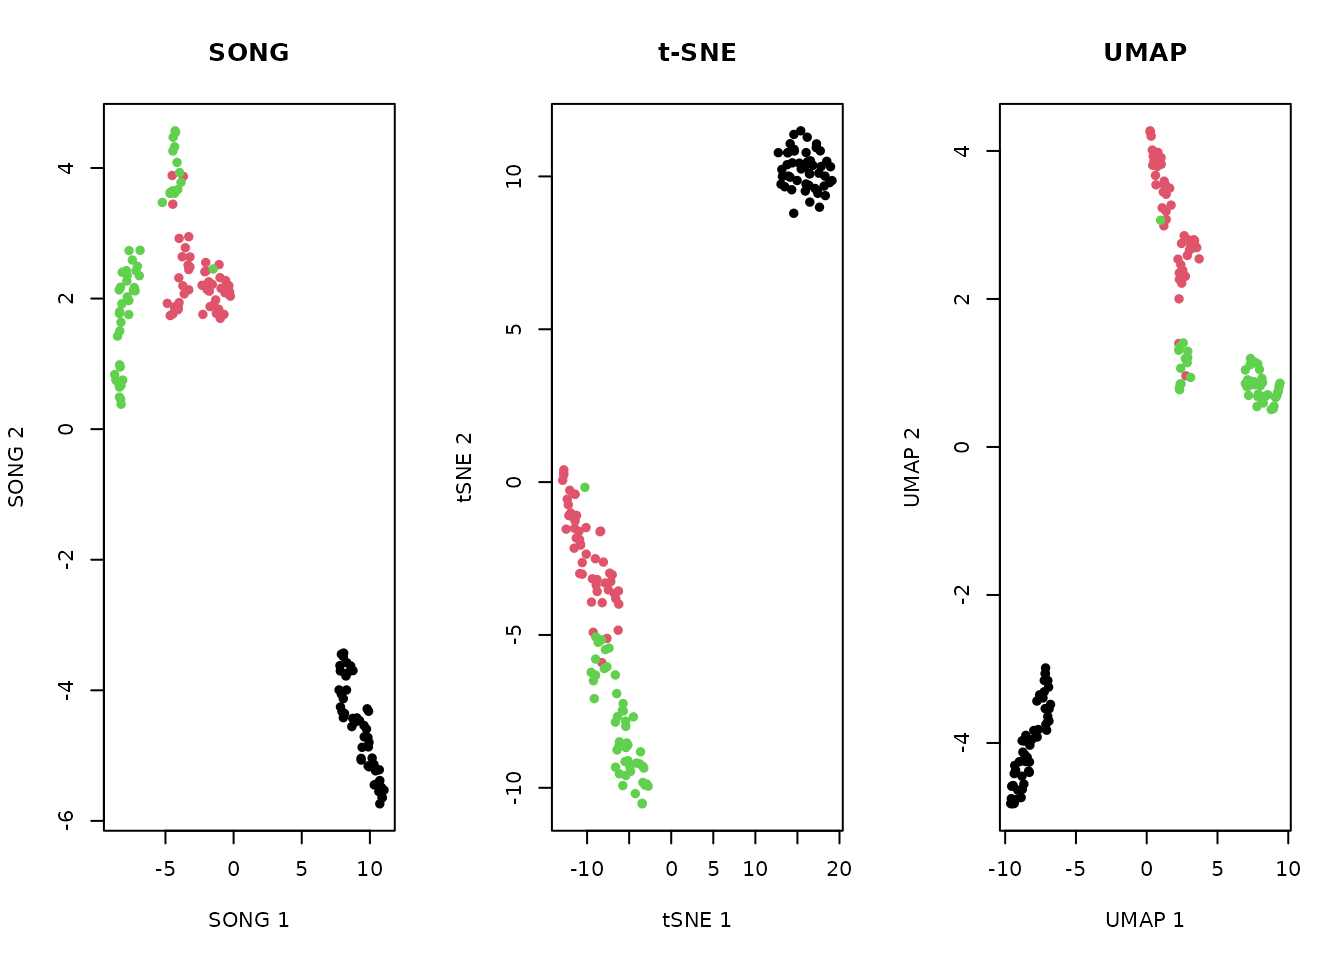
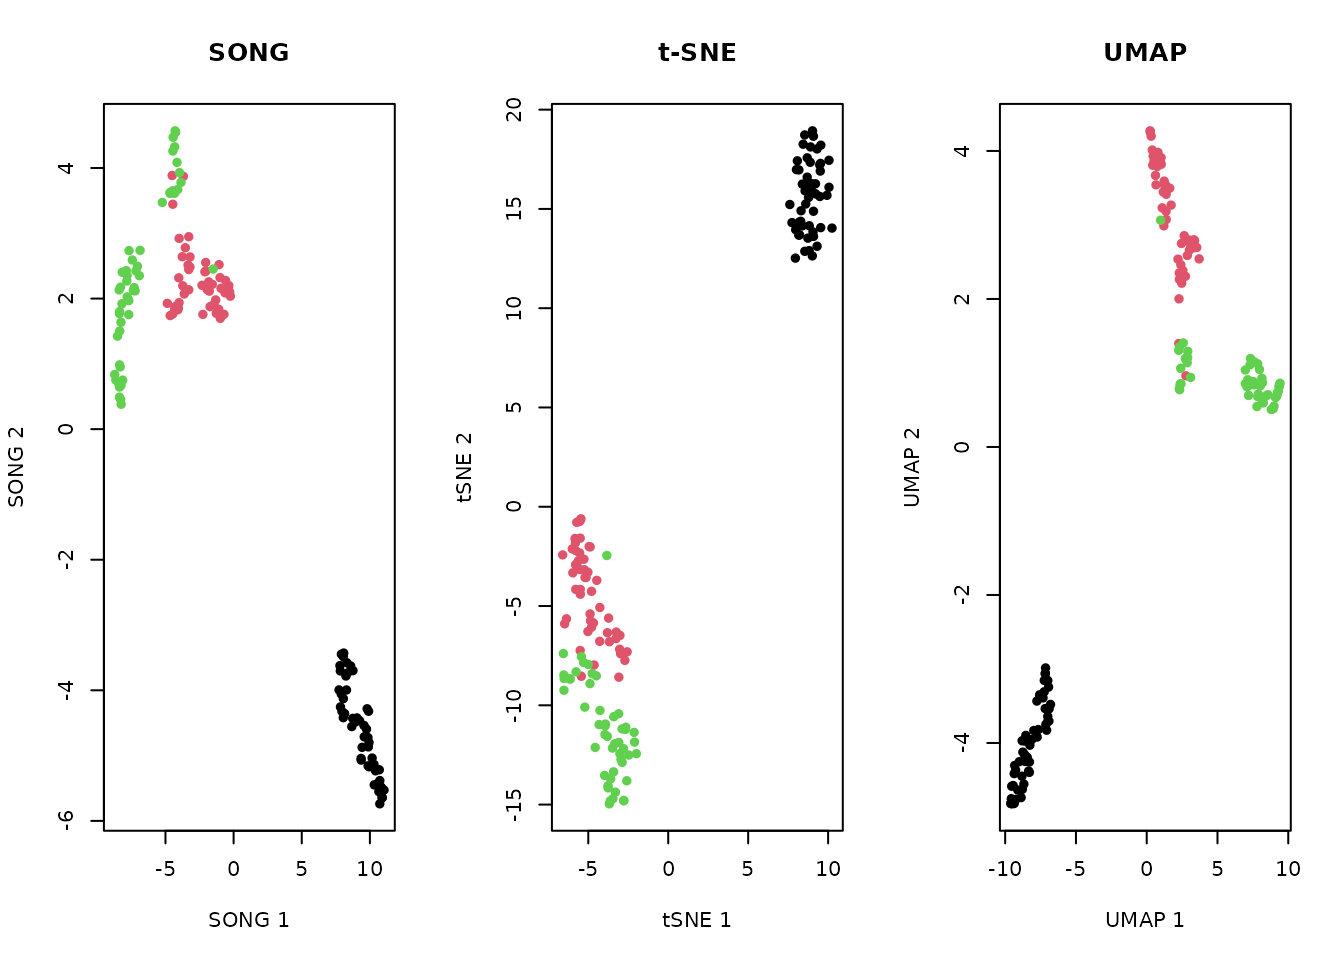
Deploying to gh-pages from @ CTTIR/songR@1a8f147b2225b5cde351894e0cf793d37db4d339 🚀

diff --git a/articles/introduction.html b/articles/introduction.html
@@ -78,6 +78,8 @@ Heller</h4>
 
     
     
+<!-- badges: start -->
+<p><a href="https://github.com/r-heller/songR/actions/workflows/R-CMD-check.yaml" class="external-link"><img src="https://github.com/r-heller/songR/actions/workflows/R-CMD-check.yaml/badge.svg" alt="R-CMD-check"></a> <a href="https://r-heller.github.io/songR/" class="external-link"><img src="https://github.com/r-heller/songR/actions/workflows/pkgdown.yaml/badge.svg" alt="pkgdown"></a> <a href="https://CRAN.R-project.org/package=songR" class="external-link"><img src="https://www.r-pkg.org/badges/version/songR" alt="CRAN status"></a> <a href="https://app.codecov.io/gh/r-heller/songR?branch=main" class="external-link"><img src="https://codecov.io/gh/r-heller/songR/branch/main/graph/badge.svg" alt="Codecov test coverage"></a> <a href="https://cran.r-project.org/package=songR" class="external-link"><img src="https://cranlogs.r-pkg.org/badges/songR" alt="CRAN downloads"></a> <a href="https://cran.r-project.org/package=songR" class="external-link"><img src="https://cranlogs.r-pkg.org/badges/grand-total/songR" alt="CRAN downloads total"></a> <a href="https://opensource.org/licenses/MIT" class="external-link"><img src="https://img.shields.io/badge/license-MIT-yellow.svg" alt="License: MIT"></a> <a href="https://lifecycle.r-lib.org/articles/stages.html#experimental" class="external-link"><img src="https://img.shields.io/badge/lifecycle-experimental-orange.svg" alt="Lifecycle: experimental"></a> <!-- badges: end --></p>
 <div class="section level3">
 <h3 id="what-is-song">What is SONG?<a class="anchor" aria-label="anchor" href="#what-is-song"></a>
 </h3>

diff --git a/articles/reproducing_paper_figures.html b/articles/reproducing_paper_figures.html
@@ -78,6 +78,8 @@ Heller</h4>
 
     
     
+<!-- badges: start -->
+<p><a href="https://github.com/r-heller/songR/actions/workflows/R-CMD-check.yaml" class="external-link"><img src="https://github.com/r-heller/songR/actions/workflows/R-CMD-check.yaml/badge.svg" alt="R-CMD-check"></a> <a href="https://r-heller.github.io/songR/" class="external-link"><img src="https://github.com/r-heller/songR/actions/workflows/pkgdown.yaml/badge.svg" alt="pkgdown"></a> <a href="https://CRAN.R-project.org/package=songR" class="external-link"><img src="https://www.r-pkg.org/badges/version/songR" alt="CRAN status"></a> <a href="https://app.codecov.io/gh/r-heller/songR?branch=main" class="external-link"><img src="https://codecov.io/gh/r-heller/songR/branch/main/graph/badge.svg" alt="Codecov test coverage"></a> <a href="https://cran.r-project.org/package=songR" class="external-link"><img src="https://cranlogs.r-pkg.org/badges/songR" alt="CRAN downloads"></a> <a href="https://cran.r-project.org/package=songR" class="external-link"><img src="https://cranlogs.r-pkg.org/badges/grand-total/songR" alt="CRAN downloads total"></a> <a href="https://opensource.org/licenses/MIT" class="external-link"><img src="https://img.shields.io/badge/license-MIT-yellow.svg" alt="License: MIT"></a> <a href="https://lifecycle.r-lib.org/articles/stages.html#experimental" class="external-link"><img src="https://img.shields.io/badge/lifecycle-experimental-orange.svg" alt="Lifecycle: experimental"></a> <!-- badges: end --></p>
 <div class="section level2">
 <h2 id="overview">Overview<a class="anchor" aria-label="anchor" href="#overview"></a>
 </h2>

diff --git a/articles/songR_quickstart.html b/articles/songR_quickstart.html
@@ -78,6 +78,8 @@ Heller</h4>
 
     
     
+<!-- badges: start -->
+<p><a href="https://github.com/r-heller/songR/actions/workflows/R-CMD-check.yaml" class="external-link"><img src="https://github.com/r-heller/songR/actions/workflows/R-CMD-check.yaml/badge.svg" alt="R-CMD-check"></a> <a href="https://r-heller.github.io/songR/" class="external-link"><img src="https://github.com/r-heller/songR/actions/workflows/pkgdown.yaml/badge.svg" alt="pkgdown"></a> <a href="https://CRAN.R-project.org/package=songR" class="external-link"><img src="https://www.r-pkg.org/badges/version/songR" alt="CRAN status"></a> <a href="https://app.codecov.io/gh/r-heller/songR?branch=main" class="external-link"><img src="https://codecov.io/gh/r-heller/songR/branch/main/graph/badge.svg" alt="Codecov test coverage"></a> <a href="https://cran.r-project.org/package=songR" class="external-link"><img src="https://cranlogs.r-pkg.org/badges/songR" alt="CRAN downloads"></a> <a href="https://cran.r-project.org/package=songR" class="external-link"><img src="https://cranlogs.r-pkg.org/badges/grand-total/songR" alt="CRAN downloads total"></a> <a href="https://opensource.org/licenses/MIT" class="external-link"><img src="https://img.shields.io/badge/license-MIT-yellow.svg" alt="License: MIT"></a> <a href="https://lifecycle.r-lib.org/articles/stages.html#experimental" class="external-link"><img src="https://img.shields.io/badge/lifecycle-experimental-orange.svg" alt="Lifecycle: experimental"></a> <!-- badges: end --></p>
 <div class="section level2">
 <h2 id="what-is-song">What is SONG?<a class="anchor" aria-label="anchor" href="#what-is-song"></a>
 </h2>

diff --git a/articles/songR_shiny_app.html b/articles/songR_shiny_app.html
@@ -78,6 +78,8 @@ Heller</h4>
 
     
     
+<!-- badges: start -->
+<p><a href="https://github.com/r-heller/songR/actions/workflows/R-CMD-check.yaml" class="external-link"><img src="https://github.com/r-heller/songR/actions/workflows/R-CMD-check.yaml/badge.svg" alt="R-CMD-check"></a> <a href="https://r-heller.github.io/songR/" class="external-link"><img src="https://github.com/r-heller/songR/actions/workflows/pkgdown.yaml/badge.svg" alt="pkgdown"></a> <a href="https://CRAN.R-project.org/package=songR" class="external-link"><img src="https://www.r-pkg.org/badges/version/songR" alt="CRAN status"></a> <a href="https://app.codecov.io/gh/r-heller/songR?branch=main" class="external-link"><img src="https://codecov.io/gh/r-heller/songR/branch/main/graph/badge.svg" alt="Codecov test coverage"></a> <a href="https://cran.r-project.org/package=songR" class="external-link"><img src="https://cranlogs.r-pkg.org/badges/songR" alt="CRAN downloads"></a> <a href="https://cran.r-project.org/package=songR" class="external-link"><img src="https://cranlogs.r-pkg.org/badges/grand-total/songR" alt="CRAN downloads total"></a> <a href="https://opensource.org/licenses/MIT" class="external-link"><img src="https://img.shields.io/badge/license-MIT-yellow.svg" alt="License: MIT"></a> <a href="https://lifecycle.r-lib.org/articles/stages.html#experimental" class="external-link"><img src="https://img.shields.io/badge/lifecycle-experimental-orange.svg" alt="Lifecycle: experimental"></a> <!-- badges: end --></p>
 <div class="section level2">
 <h2 id="overview">Overview<a class="anchor" aria-label="anchor" href="#overview"></a>
 </h2>

diff --git a/articles/introduction.md b/articles/introduction.md
@@ -1,5 +1,20 @@
 # Introduction to songR
 
+[![R-CMD-check](https://github.com/r-heller/songR/actions/workflows/R-CMD-check.yaml/badge.svg)](https://github.com/r-heller/songR/actions/workflows/R-CMD-check.yaml)
+[![pkgdown](https://github.com/r-heller/songR/actions/workflows/pkgdown.yaml/badge.svg)](https://r-heller.github.io/songR/)
+[![CRAN
+status](https://www.r-pkg.org/badges/version/songR)](https://CRAN.R-project.org/package=songR)
+[![Codecov test
+coverage](https://codecov.io/gh/r-heller/songR/branch/main/graph/badge.svg)](https://app.codecov.io/gh/r-heller/songR?branch=main)
+[![CRAN
+downloads](https://cranlogs.r-pkg.org/badges/songR)](https://cran.r-project.org/package=songR)
+[![CRAN downloads
+total](https://cranlogs.r-pkg.org/badges/grand-total/songR)](https://cran.r-project.org/package=songR)
+[![License:
+MIT](https://img.shields.io/badge/license-MIT-yellow.svg)](https://opensource.org/licenses/MIT)
+[![Lifecycle:
+experimental](https://img.shields.io/badge/lifecycle-experimental-orange.svg)](https://lifecycle.r-lib.org/articles/stages.html#experimental)
+
 ### What is SONG?
 
 The Self-Organizing Nebulous Growths (SONG) algorithm is a parametric

diff --git a/articles/reproducing_paper_figures.md b/articles/reproducing_paper_figures.md
@@ -1,5 +1,20 @@
 # Reproducing Paper Figures with songR
 
+[![R-CMD-check](https://github.com/r-heller/songR/actions/workflows/R-CMD-check.yaml/badge.svg)](https://github.com/r-heller/songR/actions/workflows/R-CMD-check.yaml)
+[![pkgdown](https://github.com/r-heller/songR/actions/workflows/pkgdown.yaml/badge.svg)](https://r-heller.github.io/songR/)
+[![CRAN
+status](https://www.r-pkg.org/badges/version/songR)](https://CRAN.R-project.org/package=songR)
+[![Codecov test
+coverage](https://codecov.io/gh/r-heller/songR/branch/main/graph/badge.svg)](https://app.codecov.io/gh/r-heller/songR?branch=main)
+[![CRAN
+downloads](https://cranlogs.r-pkg.org/badges/songR)](https://cran.r-project.org/package=songR)
+[![CRAN downloads
+total](https://cranlogs.r-pkg.org/badges/grand-total/songR)](https://cran.r-project.org/package=songR)
+[![License:
+MIT](https://img.shields.io/badge/license-MIT-yellow.svg)](https://opensource.org/licenses/MIT)
+[![Lifecycle:
+experimental](https://img.shields.io/badge/lifecycle-experimental-orange.svg)](https://lifecycle.r-lib.org/articles/stages.html#experimental)
+
 ## Overview
 
 This article reproduces key experiments from the SONG paper using the

diff --git a/articles/songR_quickstart.md b/articles/songR_quickstart.md
@@ -1,5 +1,20 @@
 # Getting Started with songR
 
+[![R-CMD-check](https://github.com/r-heller/songR/actions/workflows/R-CMD-check.yaml/badge.svg)](https://github.com/r-heller/songR/actions/workflows/R-CMD-check.yaml)
+[![pkgdown](https://github.com/r-heller/songR/actions/workflows/pkgdown.yaml/badge.svg)](https://r-heller.github.io/songR/)
+[![CRAN
+status](https://www.r-pkg.org/badges/version/songR)](https://CRAN.R-project.org/package=songR)
+[![Codecov test
+coverage](https://codecov.io/gh/r-heller/songR/branch/main/graph/badge.svg)](https://app.codecov.io/gh/r-heller/songR?branch=main)
+[![CRAN
+downloads](https://cranlogs.r-pkg.org/badges/songR)](https://cran.r-project.org/package=songR)
+[![CRAN downloads
+total](https://cranlogs.r-pkg.org/badges/grand-total/songR)](https://cran.r-project.org/package=songR)
+[![License:
+MIT](https://img.shields.io/badge/license-MIT-yellow.svg)](https://opensource.org/licenses/MIT)
+[![Lifecycle:
+experimental](https://img.shields.io/badge/lifecycle-experimental-orange.svg)](https://lifecycle.r-lib.org/articles/stages.html#experimental)
+
 ## What is SONG?
 
 **SONG** (Self-Organizing Nebulous Growths) is a parametric,

diff --git a/articles/songR_shiny_app.md b/articles/songR_shiny_app.md
@@ -1,5 +1,20 @@
 # Interactive Visualization with the songR Shiny App
 
+[![R-CMD-check](https://github.com/r-heller/songR/actions/workflows/R-CMD-check.yaml/badge.svg)](https://github.com/r-heller/songR/actions/workflows/R-CMD-check.yaml)
+[![pkgdown](https://github.com/r-heller/songR/actions/workflows/pkgdown.yaml/badge.svg)](https://r-heller.github.io/songR/)
+[![CRAN
+status](https://www.r-pkg.org/badges/version/songR)](https://CRAN.R-project.org/package=songR)
+[![Codecov test
+coverage](https://codecov.io/gh/r-heller/songR/branch/main/graph/badge.svg)](https://app.codecov.io/gh/r-heller/songR?branch=main)
+[![CRAN
+downloads](https://cranlogs.r-pkg.org/badges/songR)](https://cran.r-project.org/package=songR)
+[![CRAN downloads
+total](https://cranlogs.r-pkg.org/badges/grand-total/songR)](https://cran.r-project.org/package=songR)
+[![License:
+MIT](https://img.shields.io/badge/license-MIT-yellow.svg)](https://opensource.org/licenses/MIT)
+[![Lifecycle:
+experimental](https://img.shields.io/badge/lifecycle-experimental-orange.svg)](https://lifecycle.r-lib.org/articles/stages.html#experimental)
+
 ## Overview
 
 songR includes a built-in Shiny application for interactive exploration